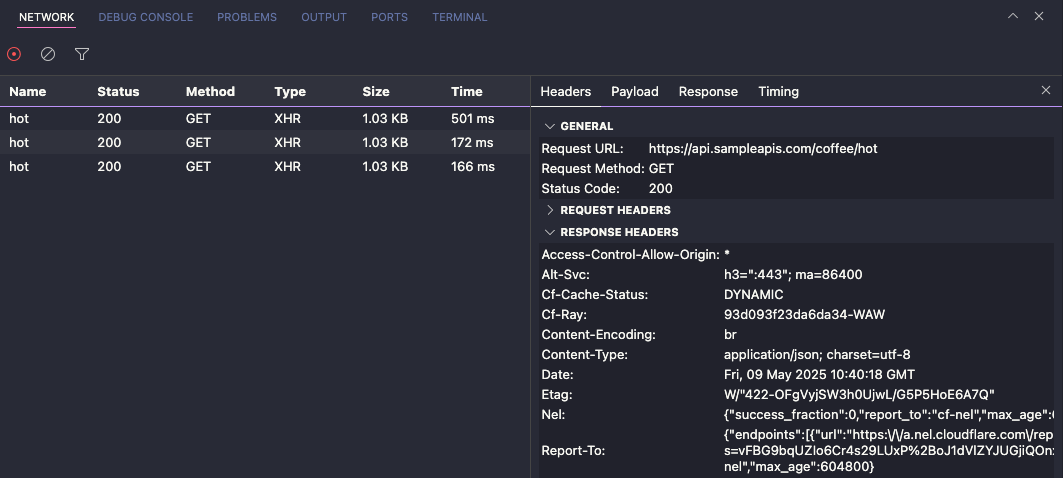
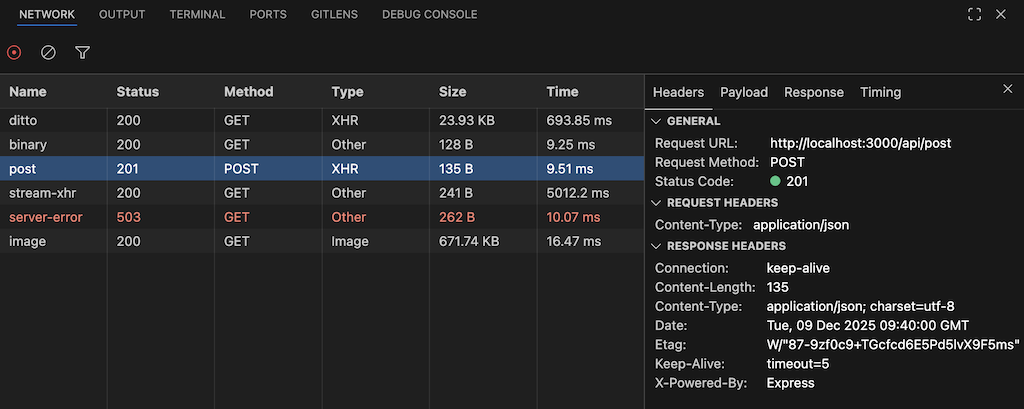
docs: update Network Inspector documentation and add new images

diff --git a/packages/docs/docs/features/network-inspector.md b/packages/docs/docs/features/network-inspector.md
@@ -4,9 +4,13 @@ title: Network Inspector
 sidebar_position: 8
 ---
 
-Radon IDE comes with a Network Inspector panel allowing you to inspect network traffic. The tool will capture and list all requests of `fetch` and `XMLHttpRequest` triggered by the JavaScript code. The panel works for both React Native CLI and Expo applications.
+Radon IDE comes with a Network Inspector panel allowing you to inspect network traffic. The tool captures all network requests initiated by `fetch` and `XMLHttpRequest`, with support for the native implementation of the React Native's Network Inspector, specifically for versions above 0.83.0.
 
-Images or websocket connections aren't currently supported and won't show up.
+Activation of the native network inspector implementation is configurable within [Launch Configuration](/docs/guides/configuration.md).
+
+Supported external libraries that polyfill the fetch implementation are currently limited to [`react-native-fetch-api`](https://www.npmjs.com/package/react-native-fetch-api).
+
+Requests made by `Image` elements and WebSocket traffic are not supported outside the native implementation and will not be displayed in the inspector.
 
 <video autoPlay loop width="700" controls className="shadow-image">
   <source src="/video/ide_network_inspector_new.mp4" type="video/mp4"/>
@@ -31,7 +35,6 @@ You can customize the Network Inspector behaviour using the following buttons:
 1. **Toggle network activity recording** - starts or stops the capture of network requests made by your application.
 2. **Clear network log** - erases all currently displayed network requests displayed in a list.
 3. **Filter domains** - opens input field allowing for filtering the displayed logs.
- 
 
 ## Filtering and sorting
 
@@ -41,7 +44,6 @@ Clicking on the **Filter** button opens an input field where you can define filt
 
 - Apply filters globally across all columns by entering plain-text.
 - Apply filters to specified columns using the syntax `column:value` for simple filters, or `column:"value with spaces"` for values that include spaces.
-
 
 Hovering over a column header also displays a filter icon. Clicking it inserts a filter template directly into the filter input field for you.
 
@@ -58,11 +60,13 @@ The Network Inspector displays a log of all network requests made by your applic
 - **Name** - the segment of the path of the URL request.
 - **Status** - a HTTP status code returned by the server.
 - **Method** - a HTTP request method used (e.g. GET, POST, PUT, DELETE, etc.).
-- **Type** - a MIME type of the requested resource. Currently, only `XHR` type is supported.
+- **Type** - a resource type as it was perceived by the rendering engine.
 - **Size** - the total size of the transferred resource.
 - **Time** - the total duration of the request.
 
 Clicking on the network log shows more details about the contents of the request. The details of the request are grouped into into Headers, Payload, Response, and Timing tabs.
+
+<img width="500" src="/img/docs/ide_devtools_network_inspector_context_menu.png" className="shadow-image" />
 
 Right clicking on the network log opens **Context Menu**, allowing for sorting and filtering the logs, copying the request details, refetching and opening responses in the editor's tab.
 
